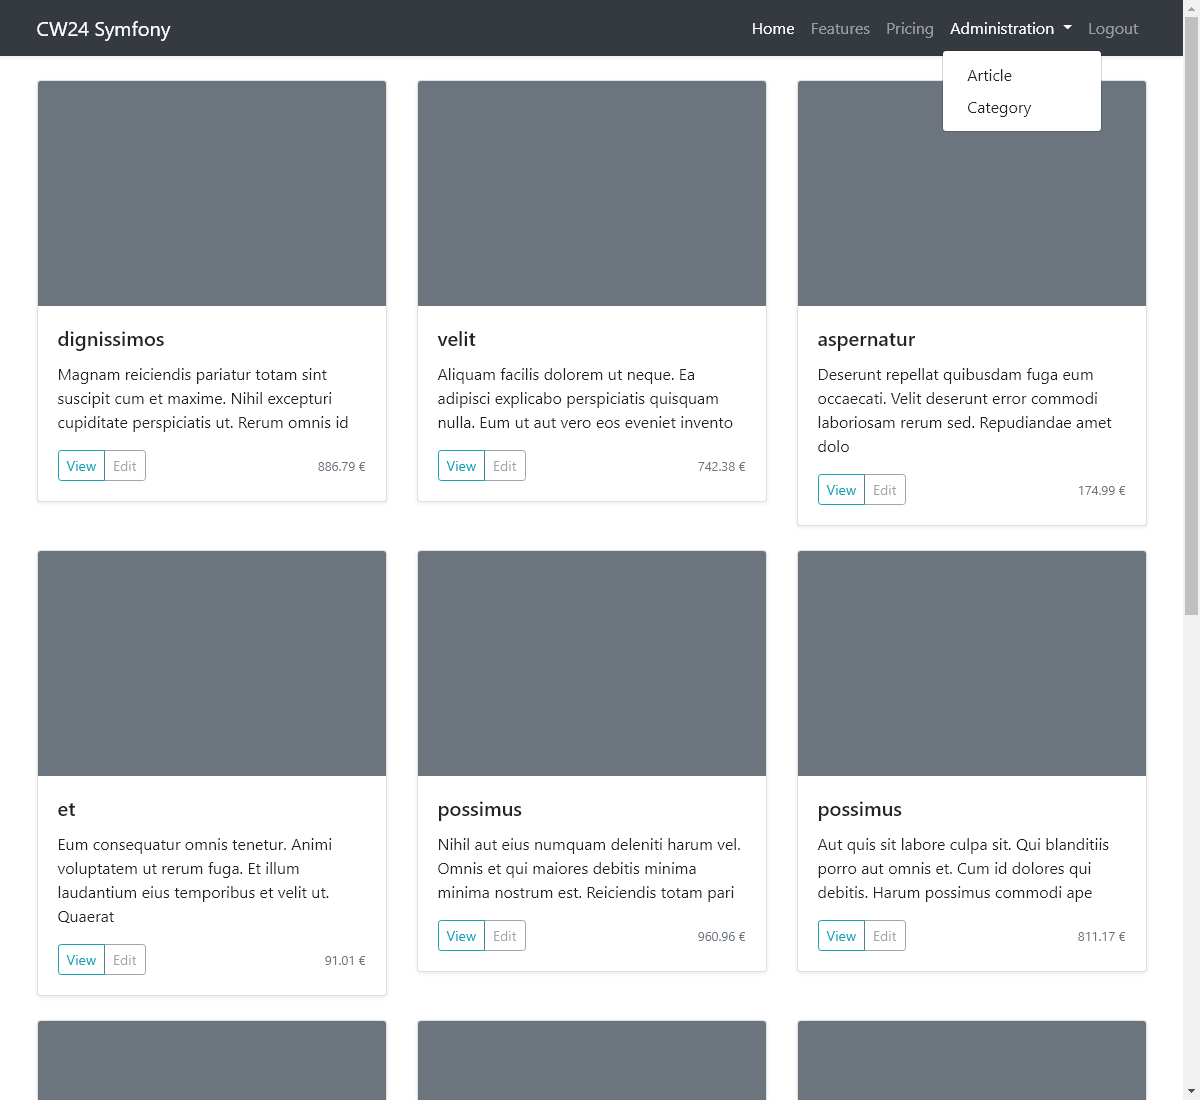
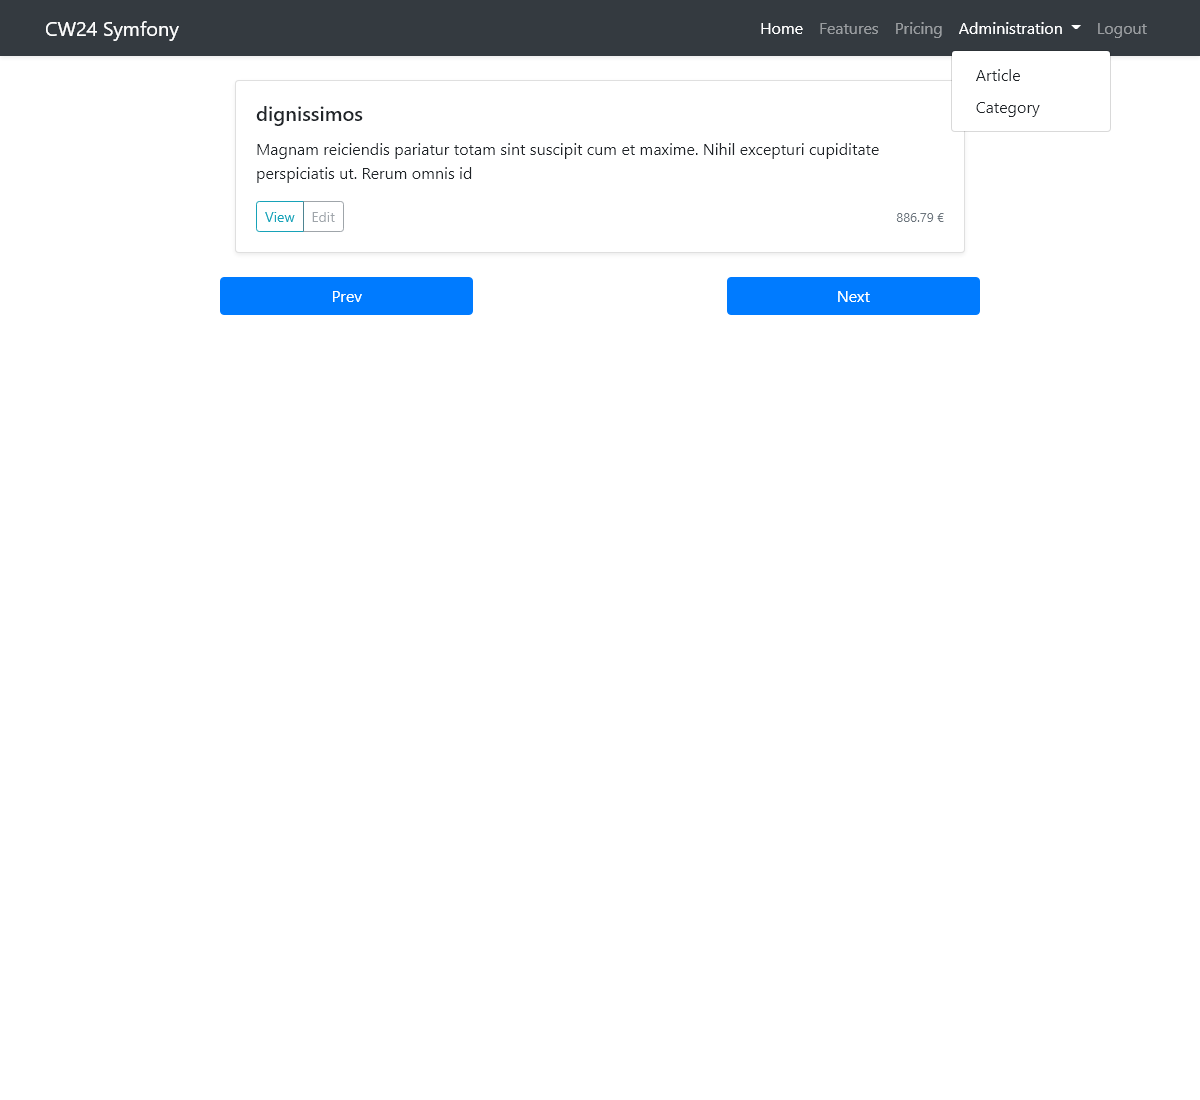
Test avec javascript

diff --git a/public/css/album.css b/public/css/album.css
@@ -31,40 +31,6 @@ footer {
 footer p {
   margin-bottom: .25rem;
 }
-body {
-  font-family: "arial", sans-serif;
-  text-align: center;
-}
 
-#slider {
-  position: relative;
-  width: 1200px;
-  margin: auto;
-  display: flex;
-  align-items: center;
-}
 
-#precedent,
-#suivant {
-  cursor: pointer;
-  transition: opacity 0.3s ease;
-  opacity: 0;
-  position: absolute;
-  font-size: 100px;
-  color: rgba(220, 220, 220, 0.8);
-  background-color: rgba(0, 0, 0, 0.8);
-  padding: 10px;
-}
 
-#precedent {
-  left: 0;
-}
-
-#suivant {
-  right: 0;
-}
-
-#slider:hover #precedent,
-#slider:hover #suivant {
-  opacity: 1;
-}

diff --git a/tests/PantherDefaultControllerTest.php b/tests/PantherDefaultControllerTest.php
@@ -11,11 +11,81 @@ class PantherDefaultControllerTest extends PantherTestCase
         $client = static::createPantherClient();
         $crawler = $client->request('GET', '/');
 
-       // $this->assertResponseIsSuccessful();
+        $client->takeScreenshot('reportScreen/PantherDefaultControllerTest/testIndex_0.png');
+        $this->assertPageTitleContains('Hello DefaultController!');
         $this->assertSelectorTextContains('.navbar-brand', 'CW24 Symfony');
         $this->assertSelectorTextContains('.navbar-nav li:last-child', 'Login');
-        $this->assertPageTitleContains('Hello DefaultController!');
-        //$this->assertSelectorTextContains('title', 'Hello DefaultController!');
     }
 
+
+    public function testGotoSignin(): void
+    {
+        $client = static::createPantherClient();
+        $crawler = $client->request('GET', '/');
+        $link    = $crawler->selectLink('Login')->link();
+        $crawler = $client->click($link);
+
+        $client->takeScreenshot('reportScreen/PantherDefaultControllerTest/testGotoSignin_0.png');
+        $this->assertSelectorTextContains('h1', 'Please sign in');
+    }
+
+
+    public function testSlider(): void {
+        $client = static::createPantherClient();
+        $crawler = $client->request('GET', '/');
+
+
+        // test btn next
+        for($i=1; $i<=count($crawler->filter(".slides li")); $i++){
+
+            // eq attend un index donc $i - 1
+            // l'assertVisibleSlide attend le numero d'element pour du xpath donc $i
+            $client->takeScreenshot("reportScreen/PantherDefaultControllerTest/testSlider_{$i}_next.png");
+            $this->assertEquals('active', $crawler->filter(".slides li")->eq($i - 1)->attr('class'));
+            $this->assertVisibleSlide($crawler, $i);
+            $client->executeScript("document.querySelector('#btn-next').click()");
+        }
+
+
+        // test btn prev
+        for($i=count($crawler->filter(".slides li")); $i>=1; $i--){
+
+            if($i==count($crawler->filter(".slides li"))){
+
+                // lors du dernier tour de la boucle de la premiere boucle,
+                // derniere operation click next donc retour a la premiere slide
+                $client->takeScreenshot('reportScreen/PantherDefaultControllerTest/testSlider_1_next_b.png');
+                $this->assertEquals('active', $crawler->filter(".slides li")->eq(0)->attr('class'));
+                $this->assertVisibleSlide($crawler, 1);
+                $client->executeScript("document.querySelector('#btn-prev').click()");
+            }
+
+            // eq attend un index donc $i - 1
+            // l'assertVisibleSlide attend le numero d'element pour du xpath donc $i
+            $client->takeScreenshot("reportScreen/PantherDefaultControllerTest/testSlider_{$i}_prev.png");
+            $this->assertEquals('active', $crawler->filter(".slides li")->eq($i - 1)->attr('class'));
+            $this->assertVisibleSlide($crawler, $i);
+            $client->executeScript("document.querySelector('#btn-prev').click()");
+        }
+
+        // lors du dernier tour de la boucle de la premiere boucle,
+        // derniere operation click prev donc retour a la derniere slide
+        $lastSlide = count($crawler->filter(".slides li"));
+        $client->takeScreenshot("reportScreen/PantherDefaultControllerTest/testSlider_{$lastSlide}_prev_b.png");
+        $this->assertEquals('active', $crawler->filter(".slides li")->eq($lastSlide - 1)->attr('class'));
+        $this->assertVisibleSlide($crawler, $lastSlide);
+
+    }
+
+
+
+    public function assertVisibleSlide($crawler, $index) {
+        for($i=1; $i<=count($crawler->filter(".slides li")); $i++){
+            if ($i == $index) {
+                $this->assertSelectorIsVisible("//div[contains(@class, 'slider')]/ul/li[$i]");
+            } else {
+                $this->assertSelectorIsNotVisible("//div[contains(@class, 'slider')]/ul/li[$i]");
+            }
+        }
+    }
 }

diff --git a/migrations/Version20210310104613.php b/migrations/Version20210310104613.php
@@ -1,0 +1,31 @@
+<?php
+
+declare(strict_types=1);
+
+namespace DoctrineMigrations;
+
+use Doctrine\DBAL\Schema\Schema;
+use Doctrine\Migrations\AbstractMigration;
+
+/**
+ * Auto-generated Migration: Please modify to your needs!
+ */
+final class Version20210310104613 extends AbstractMigration
+{
+    public function getDescription() : string
+    {
+        return '';
+    }
+
+    public function up(Schema $schema) : void
+    {
+        // this up() migration is auto-generated, please modify it to your needs
+        $this->addSql('ALTER TABLE user ADD gender VARCHAR(2) DEFAULT NULL');
+    }
+
+    public function down(Schema $schema) : void
+    {
+        // this down() migration is auto-generated, please modify it to your needs
+        $this->addSql('ALTER TABLE user DROP gender');
+    }
+}

diff --git a/src/Entity/User.php b/src/Entity/User.php
@@ -67,6 +67,11 @@ class User implements UserInterface
      */
     private $articles;
 
+    /**
+     * @ORM\Column(type="string", length=2, nullable=true)
+     */
+    private $gender;
+
     public function __construct()
     {
         $this->articles = new ArrayCollection();
@@ -213,6 +218,18 @@ class User implements UserInterface
                 $article->setAuthor(null);
             }
         }
+
+        return $this;
+    }
+
+    public function getGender(): ?string
+    {
+        return $this->gender;
+    }
+
+    public function setGender(?string $gender): self
+    {
+        $this->gender = $gender;
 
         return $this;
     }
